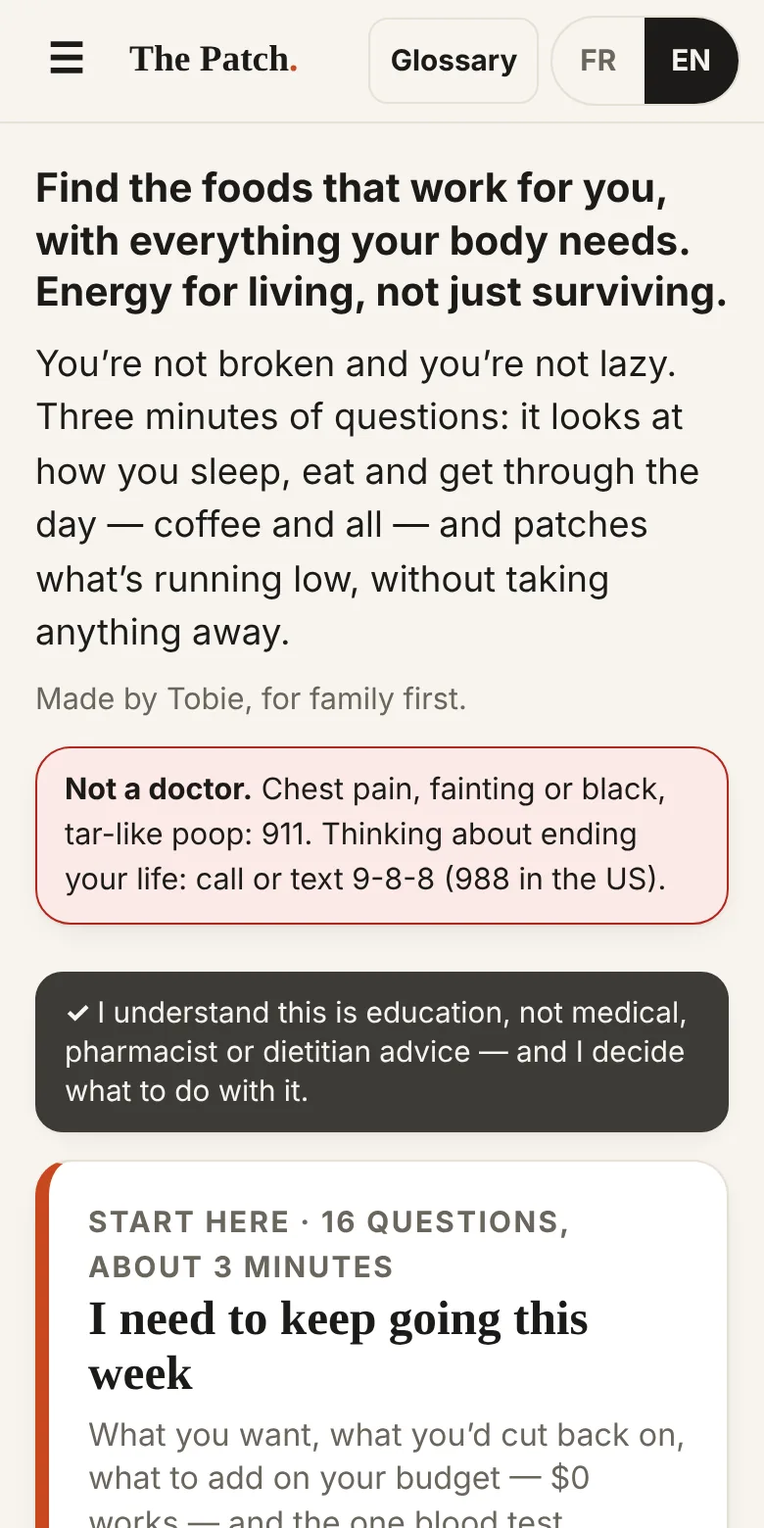
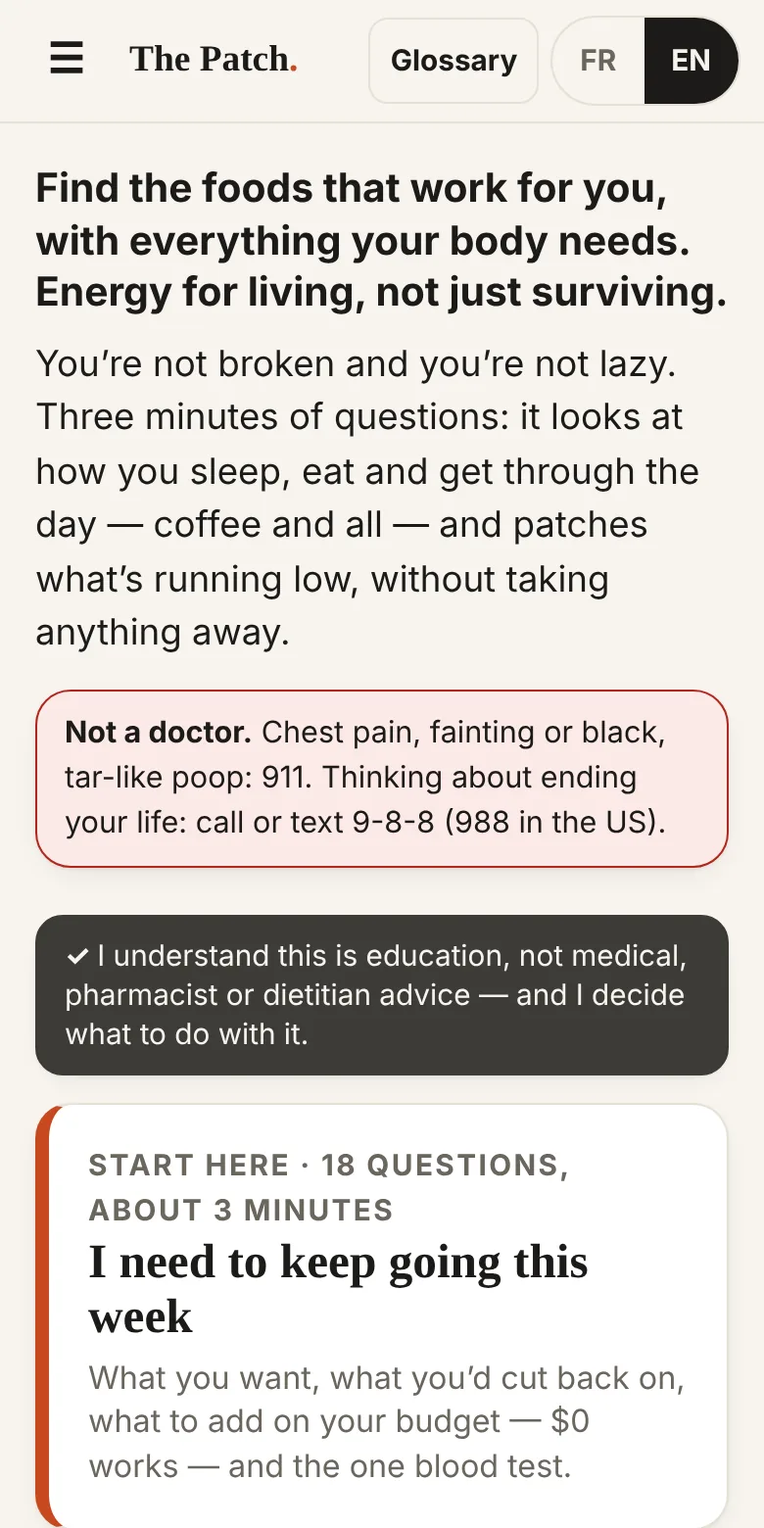
The Patch: a crash report logs itself; under-18 notice first; Back button
The app (still 1.2.61, so its one-time safety note is not shown again):
- A crash report is saved when its read is reached, the way a meal or a
  symptom report is saved on Done. Going back to change an answer updates
  that entry instead of adding a second one. Deleting the entry, or Clear
  log, is respected. Chest pain or fainting is never logged as a crash.
- Someone who answers "under 18" now sees that notice as the first card
  of the plan, in full, instead of folded among the notes at the bottom.
  The plan under it is the adapted one, as before.
- The phone's Back button goes one step back inside the app (a sheet
  closes, a question goes back, other screens go to Report) and leaves
  only from Report.
- PIN sheet and lock screen: each label sits above its own field.
- Dark mode: a selected warning sign, links in a sheet and a glossary
  word inside a tag can be read.
- 320px screens: Back, the progress dots and "None of these" fit.
- The backup file is named with the local date, not the UTC one.
- "Not now" under the big Install button; Menu keeps "Install on this
  phone".
- First run: the language chosen on the front page, if there is one.

The page: "18 questions" (the count a first visitor gets), a link back to
v3ktor.org in the header and the footer, the language choice shared with
the front page and Sollum's page, dark-mode button text. The two
"Start here" screenshots are retaken from the current app.

Cache name updated so phones pick up the change.
[…]

diff --git a/patch/app/index.html b/patch/app/index.html
@@ -345,6 +345,15 @@ ul.pay{padding-left:18px} ul.pay li{margin:.2em 0}
 .card .x{position:absolute;top:2px;right:2px;width:44px;height:44px;border:0;background:transparent;color:var(--muted);font-size:1.5rem;line-height:1;cursor:pointer;border-radius:22px}
 .card .x:focus-visible{outline:3px solid var(--accent)}
 .chip.alarm{border-color:var(--warn)} .chip.alarm[aria-pressed="true"]{background:var(--warn);border-color:var(--warn);color:#fff}
+/* dark mode: a selected warning sign and the links in a sheet were too faint (white on coral, browser blue on charcoal) */
+@media (prefers-color-scheme:dark){.chip.alarm[aria-pressed="true"]{color:#1c0d0b} .sheet a:not(.btn){color:var(--teal)}}
+/* a glossary word inside a coloured tag takes the tag's own text colour (teal on orange couldn't be read) */
+.tag .t{color:inherit}
+/* PIN: each label above its own field */
+label[for="pinA"],label[for="pinB"],label[for="pinIn"]{display:block;margin:10px 0 4px}
+#pinA,#pinB,#pinIn{display:block;width:100%;max-width:240px;min-height:44px;box-sizing:border-box}
+/* 320px screens: Back, the progress dots and "None of these →" fit on one line */
+@media (max-width:340px){.bar{padding-left:10px;padding-right:10px} #bar .in{gap:6px} #bar .in .btn{padding:9px 10px} .prog{gap:2px;margin:0 6px}}
 .labgrid{display:grid;grid-template-columns:1fr;gap:10px;margin-top:12px} @media(min-width:520px){.labgrid{grid-template-columns:1fr 1fr}}
 .labgrid label.lab{display:flex;flex-direction:column;gap:4px;font-size:.95rem} .labgrid label.lab span{font-weight:600}
 .labform input.sel{min-height:44px} .labform input[type=date]{max-width:220px}
@@ -498,7 +507,8 @@ const VER='1.2.61'; const CHECKED=['4 Nov 2026','4 nov. 2026'];
 /* v1.2.59 (8 Nov 2026): a day summary for other v3ktor.org apps on this phone (Sollum first): sleep, caffeine, sugar, meals, drinks,
    crashes — counts and times, never the answers or the food list — under one shared local key, next to the app's own storage.
    Nothing leaves the phone. Off in the menu; erasing the app clears it. The summaries also ride along in the backup (S.sum). */
-if(!S.lang){ S.lang = (navigator.language||'en').toLowerCase().startsWith('fr') ? 'fr' : 'en'; }
+if(!S.lang){ let fp=null; try{ fp=localStorage.getItem('v3ktor-lang'); }catch(e){}   /* the choice made on the v3ktor.org front page, if there is one */
+  S.lang = (fp==='fr'||fp==='en') ? fp : (navigator.language||'en').toLowerCase().startsWith('fr') ? 'fr' : 'en'; }
 /* v0.7: three doors. Older saves have no mode — someone mid-questions lands back on their question, everyone else on the chooser. */
 if(!S.mode){ S.mode = S.step>0 ? 'patch' : 'home'; }
 if(!S.c||typeof S.c!=='object') S.c={}; if(Array.isArray(S.c.cstim)) S.c.cstim=S.c.cstim[0]||null; if(!Array.isArray(S.crashes)) S.crashes=[]; if(!S.cstep) S.cstep=0;
@@ -1443,7 +1453,7 @@ function buildPatch(){
   const P={keep:[],keepShort:[],swap:[],swapShort:[],add:[],eat:[],timing:[],leak:[],number:[],plain:[],always:[],stops:[],book:[],notes:[],cost:0,addNote:'',deferred:0};
 
   /* safety answers: not emergencies, but they rewrite the card */
-  if(minor) P.notes.push(L(`<b>Under 18: this wasn’t built for you.</b> The doses and the alcohol advice are for adults, so the Add card is empty on purpose. What still holds: protein before noon, caffeine done by noon, and if you’re tired all the time, ask a parent, school nurse or doctor for a ferritin test — low iron is very common at your age and it looks exactly like “lazy”.`,
+  if(minor) P.notes.push(P.minorNote=L(`<b>Under 18: this wasn’t built for you.</b> The doses and the alcohol advice are for adults, so the Add card is empty on purpose. What still holds: protein before noon, caffeine done by noon, and if you’re tired all the time, ask a parent, school nurse or doctor for a ferritin test — low iron is very common at your age and it looks exactly like “lazy”.`,
     `<b>Moins de 18 ans : ça n’a pas été bâti pour toi.</b> Les doses et les conseils sur l’alcool sont pour des adultes, alors la carte Ajouter est vide exprès. Ce qui s’applique quand même : des protéines avant midi, la caféine finie à midi, et si tu es toujours à plat, demande à un parent, à l’infirmière de l’école ou à un médecin un test de ferritine — manquer de fer est très fréquent à ton âge, et de l’extérieur, ça passe pour de la paresse.`));
   const BF=SF.bf;
   if(preg) P.notes.push(L(`<b>Pregnant: the patch changes for you.</b> No liver, no creatine, no salt water. Caffeine: 300 mg a day at most — about a mug and a half of drip coffee.${drinks?' Alcohol: no amount is known to be safe in pregnancy; if stopping is hard, that’s a pharmacist or prenatal-clinic conversation this week, not a swap.':''} Every supplement below gets a yes from the pharmacist first — ${T('prenatal','a prenatal vitamin with 16–20 mg of iron')} is the base (Health Canada). Ferritin matters more for you, not less: the iron target goes up by half in pregnancy, from 18 to 27 mg. Ask at your next visit.`,
@@ -2670,9 +2680,11 @@ function daysLine(){ const n=usableKeys().length, sa=asideKeys().length; if(n<MI
    So on iPhone, outside the installed app (and outside Claude), say so once — dismissible. */
 const IOS=(()=>{ try{ return /iP(hone|ad|od)/.test(navigator.userAgent)||(navigator.platform==='MacIntel'&&navigator.maxTouchPoints>1); }catch(_){ return false; } })();
 /* A big Install button on Home, like V3KTOR's (13 Nov 2026). It opens the phone's own install dialog when the browser offers one; otherwise it goes to the steps on the site page. */
-function instBig(){ let installed=false; try{ installed=!!(navigator.standalone||(window.matchMedia&&window.matchMedia('(display-mode: standalone)').matches)); }catch(_){}
-  if(installed||window.claude||window.__installed||!/^https?:$/.test(location.protocol)) return ''; try{ if(window.top!==window.self||localStorage.getItem('thepatch.installDismissed')) return ''; }catch(_){ return ''; }
-  return `<div class="instbig" style="margin:14px 0"><style>body:has(.instbig) #installPill{display:none!important}</style><button type="button" data-install-big style="display:block;width:100%;box-sizing:border-box;min-height:64px;padding:14px 18px;font:inherit;font-size:1.12rem;font-weight:800;letter-spacing:.02em;border:2px solid currentColor;border-radius:14px;background:transparent;color:inherit;cursor:pointer">↓ ${L('Install The Patch','Installer La Patch')}</button><p style="margin:6px 0 0;text-align:center;font-size:.85rem;opacity:.72">${L('Home-screen icon · full screen · works offline','Icône d’accueil · plein écran · fonctionne hors ligne')}</p></div>`; }
+/* can this copy be installed from here? Not when it already is, inside Claude or a frame, or opened as a file */
+function canInstall(){ let installed=false; try{ installed=!!(navigator.standalone||(window.matchMedia&&window.matchMedia('(display-mode: standalone)').matches)); }catch(_){}
+  if(installed||window.claude||window.__installed||!/^https?:$/.test(location.protocol)) return false; try{ return window.top===window.self; }catch(_){ return false; } }
+function instBig(){ if(!canInstall()) return ''; try{ if(localStorage.getItem('thepatch.installDismissed')) return ''; }catch(_){ return ''; }
+  return `<div class="instbig" style="margin:14px 0"><style>body:has(.instbig) #installPill{display:none!important}</style><button type="button" data-install-big style="display:block;width:100%;box-sizing:border-box;min-height:64px;padding:14px 18px;font:inherit;font-size:1.12rem;font-weight:800;letter-spacing:.02em;border:2px solid currentColor;border-radius:14px;background:transparent;color:inherit;cursor:pointer">↓ ${L('Install The Patch','Installer La Patch')}</button><p style="margin:6px 0 0;text-align:center;font-size:.85rem;opacity:.72">${L('Home-screen icon · full screen · works offline','Icône d’accueil · plein écran · fonctionne hors ligne')}</p><p style="margin:0;text-align:center"><button type="button" data-install-no style="min-height:44px;padding:8px 16px;border:0;background:none;color:inherit;font:inherit;font-size:.9rem;text-decoration:underline;text-underline-offset:3px;cursor:pointer">${L('Not now','Pas maintenant')}</button></p></div>`; }
 function iosNote(){ let installed=false; try{ installed=!!(navigator.standalone||(window.matchMedia&&window.matchMedia('(display-mode: standalone)').matches)); }catch(_){}
   if(!IOS||installed||window.claude||S.iosOk) return '';
   return `<div class="card soft small" id="iosCard"><p style="margin:0 0 8px">${L('On iPhone, Safari can erase your answers if a week of using Safari goes by without you opening this. Add it to your Home Screen to keep them: in Safari, Share ⬆ → Add to Home Screen.','Sur iPhone, Safari peut effacer tes réponses si une semaine d’utilisation passe sans que tu ouvres l’app. Ajoute-la à ton écran d’accueil pour les garder : dans Safari, Partager ⬆ → Sur l’écran d’accueil.')}</p><button type="button" class="btn ghost sm" id="iosOk">${L('Got it','Compris')}</button></div>`; }
@@ -4185,6 +4197,16 @@ function cleanState(){ const okD=s=>typeof s==='string'&&/^\d{4}-\d{2}-\d{2}$/.t
 function crashFlagAfterDelete(k){ if(!k||crashKeys().has(k)) return ''; const r=rates()[k]; if(!r||!r.fl||!r.fl.cr) return '';
   if(r.crA){ delete r.fl.cr; delete r.crA; return ''; }
   return L('Deleted. That day’s check-in still says you crashed — change it there if that’s wrong.','Supprimé. Le bilan de cette journée dit encore que tu as crashé — change-le là si ce n’est pas juste.'); }
+/* A crash report saves itself when its read is reached, the way a meal or a symptom report does on Done. The draft remembers its entry (_lid):
+   change an answer, come back to the read, and that entry is updated instead of a second one being added. Chest pain or fainting is never logged as a crash.
+   Deleting the entry (×, or Clear log) turns this off for that draft (_nolog); "Log this crash" still works. */
+function logCrash(){ const R=buildCrash(); if(R.danger) return false; const ans={}; for(const [k2,v2] of Object.entries(S.c)) if(k2[0]!=='_') ans[k2]=Array.isArray(v2)?[...v2]:v2;
+  const dk=S.c._day||dayKey(), i=S.c._lid?S.crashes.findIndex(x=>x&&x.id===S.c._lid):-1, old=i>=0?S.crashes[i]:null;
+  const e={id:old?old.id:Date.now(), d:old?old.d:new Date().toISOString(), day:dk, at:S.c._at||null, answers:ans, ver:VER, when:S.c.cwhen||null, feel:Array.isArray(S.c.cfeel)?[...S.c.cfeel]:[], top:R.top, second:R.second, conf:R.conf};
+  if(old) S.crashes[i]=e; else S.crashes.push(e);
+  if(old&&crashDay(old)!==dk) crashFlagAfterDelete(crashDay(old));   /* the report moved to another day: the old day's ⚡ goes if nothing else holds it */
+  { const rr=rates()[dk]||(rates()[dk]={}); rr.fl=rr.fl||{}; if(!rr.fl.cr){ rr.fl.cr=true; rr.crA=true; } } /* v1.2.25: the check-in agrees with the log; "Which is right?" only if ⚡ is unticked later */
+  pruneCrashes(); S.c._logged=e.id; S.c._lid=e.id; return true; }
 /* a year of crash reports, not the last 30 */
 function pruneCrashes(){ const cut=keyAdd(dayKey(),-365); S.crashes=(S.crashes||[]).filter(x=>{ const k=crashDay(x); return !k||k>=cut; }).slice(-500); }
 /* the bring-back days count only where the log (or the check-in, for coffee and drinks) shows it was back */
@@ -4214,9 +4236,10 @@ function weekCard(P){ const SF=SAFE(); const bought=P.add.filter(x=>x.cost>0).ma
   rows.push(`<li><b>${L('Add:','Ajouter :')}</b> ${add}</li>`);
   return `<div class="card patch"><h3><span class="tag teal">${L('This week','Cette semaine')}</span></h3><ul class="wk">${rows.join('')}</ul><p class="small muted" style="margin:0">${L('The why, the foods and the rest are in the full patch, further down.','Le pourquoi, les aliments et le reste sont dans la patch au complet, plus bas.')}</p></div>`; }
 /* one card for the notes: each opens from its bold first line; lines that must never be folded stay in the open */
-function notesCard(P){ if(!P.notes.length && !P.always.length) return '';
+function notesCard(P){ const notes=P.notes.filter(s=>s!==P.minorNote);   /* the under-18 notice has its own card at the top of the plan */
+  if(!notes.length && !P.always.length) return '';
   const split=s=>{ const i=s.indexOf('</b>'); return (s.startsWith('<b>')&&i>0)?[s.slice(0,i+4), s.slice(i+4).trim()]:[s,'']; };
-  const items=P.notes.map(s=>{ const [hd,rest]=split(s); return rest?`<details class="note"><summary>${hd}</summary><p style="margin:2px 0 10px">${rest}</p></details>`:`<p style="margin:8px 0">${hd}</p>`; }).join('');
+  const items=notes.map(s=>{ const [hd,rest]=split(s); return rest?`<details class="note"><summary>${hd}</summary><p style="margin:2px 0 10px">${rest}</p></details>`:`<p style="margin:8px 0">${hd}</p>`; }).join('');
   return `<div class="card soft"><div class="eyebrow">${L('Because of what you told us','Selon ce que tu nous as dit')}</div>${items}${P.always.map(s=>`<p style="margin:10px 0 0">${s}</p>`).join('')}</div>`; }
 /* day 4: the check the Add card promises; week 4: the redo. Only shown when the person opens the app — nothing reminds them. */
 function dayCheck(P,where){ if(!S.started) return ''; const day=Math.floor((Date.now()-new Date(S.started).getTime())/86400000)+1;
@@ -4248,7 +4271,9 @@ function vPatch(){
   }
   /* v1.2.48: a new patch reads top-down; once the week has started, what's live — the weight plan, a test, your path — comes first */
   const live=planLive(); { const sg=pathSig(); if(S.planSig!==sg){ S.planSig=sg; save(); } }
-  h+=started?stops+bookCard()+live+head:head+stops+bookCard();
+  /* under 18: said first and in full, not folded among the notes further down. The plan below is already the adapted one (no doses, no alcohol advice, no weight plan). */
+  const minorCard=P.minorNote?`<div class="card soft" id="minorNote"><p style="margin:0">${P.minorNote}</p></div>`:'';
+  h+=started?stops+minorCard+bookCard()+live+head:head+stops+minorCard+bookCard();
   h+=mirrorHTML();
   h+=dayCheck(P,'patch');
   { const o=oneThing(P); h+=`<div class="card one"><div class="eyebrow">${L('If you do one thing this week','Si tu fais une seule chose cette semaine')}</div><p class="big">${o.t}</p><p class="small muted" style="margin:0">${o.w} ${L('The rest is below, for when you come back.','Le reste est plus bas, pour quand tu reviendras.')}</p></div>`; }
@@ -4383,17 +4408,17 @@ function bind(){
     save(); render(); };
   if($('home')) $('home').onclick=()=>{ S.mode='home'; save(); render(); };
   if($('next')) $('next').onclick=()=>{ const n=$('next').dataset.none;
-    if(view()==='cq'){ if(n){ const q=CQ.find(x=>x.id===n); S.c[n]=(q&&q.multi)?[$('next').dataset.nonev]:$('next').dataset.nonev; } S.cstep++; }
+    let logged=false;
+    if(view()==='cq'){ if(n){ const q=CQ.find(x=>x.id===n); S.c[n]=(q&&q.multi)?[$('next').dataset.nonev]:$('next').dataset.nonev; } S.cstep++; if(S.cstep>cqList().length&&!S.c._logged&&!S.c._nolog) logged=logCrash(); }
     else if(view()==='tq'){ if(n) S.tank.p[n]=['none']; tqAdvance(); }
     else { if(n){ S.a[n]=['none']; if(n==='cut') syncKeep(); } S.step++; }
-    save(); render(); };
+    save(); render(); if(logged) toast(L('Logged','Au journal')); };
   if($('urgentAck')) $('urgentAck').onclick=()=>{ S.urgentAck=true; save(); render(true); };
   if($('startWeek')) $('startWeek').onclick=()=>{ S.started=new Date().toISOString(); S.checkins=[]; save(); render(true); toast(L('Week started','Semaine commencée')); };
-  if($('logCrash')) $('logCrash').onclick=()=>{ const R=buildCrash(); const id=Date.now(); const ans={}; for(const [k2,v2] of Object.entries(S.c)) if(k2[0]!=='_') ans[k2]=Array.isArray(v2)?[...v2]:v2; S.crashes.push({id, d:new Date().toISOString(), day:S.c._day||dayKey(), at:S.c._at||null, answers:ans, ver:VER, when:S.c.cwhen||null, feel:Array.isArray(S.c.cfeel)?[...S.c.cfeel]:[], top:R.top, second:R.second, conf:R.conf}); { const dk=S.c._day||dayKey(); const rr=rates()[dk]||(rates()[dk]={}); rr.fl=rr.fl||{}; if(!rr.fl.cr){ rr.fl.cr=true; rr.crA=true; } } /* v1.2.25: the check-in agrees with the log; "Which is right?" only if ⚡ is unticked later */
-    pruneCrashes(); S.c._logged=id; save(); render(true); toast(L('Logged','Au journal')); };
+  if($('logCrash')) $('logCrash').onclick=()=>{ delete S.c._nolog; if(!logCrash()) return; save(); render(true); toast(L('Logged','Au journal')); };
   if($('newCrash')) $('newCrash').onclick=()=>{ S.c={_st:Date.now()}; S.cstep=1; save(); render(); };
-  if($('clearLog')) $('clearLog').onclick=function(){ if(!this.dataset.sure){ this.dataset.sure='1'; this.textContent=L('Tap again to clear the crash log','Appuie encore pour vider le journal'); return; } const ks=[...new Set(S.crashes.map(crashDay).filter(Boolean))]; S.crashes=[]; delete S.c._logged; let note=''; for(const k of ks){ const n=crashFlagAfterDelete(k); if(n) note=n; } save(); render(true); toast(note?L('Log cleared. Some check-ins still say you crashed — change them there if that’s wrong.','Journal vidé. Certains bilans disent encore que tu as crashé — change-les là si ce n’est pas juste.'):L('Log cleared','Journal vidé')); };
-  document.querySelectorAll('[data-delcrash]').forEach(b=>{ b.onclick=()=>{ const i=+b.dataset.delcrash; const x=S.crashes[i]; const isCurrent = S.c._logged===true ? i===S.crashes.length-1 : (x&&x.id===S.c._logged); S.crashes.splice(i,1); if(isCurrent||!S.crashes.length) delete S.c._logged; const left=x?crashFlagAfterDelete(crashDay(x)):''; save(); render(true); toast(left||L('Deleted','Supprimé')); }; });
+  if($('clearLog')) $('clearLog').onclick=function(){ if(!this.dataset.sure){ this.dataset.sure='1'; this.textContent=L('Tap again to clear the crash log','Appuie encore pour vider le journal'); return; } const ks=[...new Set(S.crashes.map(crashDay).filter(Boolean))]; S.crashes=[]; delete S.c._logged; delete S.c._lid; S.c._nolog=true; let note=''; for(const k of ks){ const n=crashFlagAfterDelete(k); if(n) note=n; } save(); render(true); toast(note?L('Log cleared. Some check-ins still say you crashed — change them there if that’s wrong.','Journal vidé. Certains bilans disent encore que tu as crashé — change-les là si ce n’est pas juste.'):L('Log cleared','Journal vidé')); };
+  document.querySelectorAll('[data-delcrash]').forEach(b=>{ b.onclick=()=>{ const i=+b.dataset.delcrash; const x=S.crashes[i]; const isCurrent = S.c._logged===true ? i===S.crashes.length-1 : (x&&x.id===S.c._logged); const mine=isCurrent||(x&&x.id===S.c._lid); S.crashes.splice(i,1); if(isCurrent||!S.crashes.length) delete S.c._logged; if(mine){ delete S.c._lid; S.c._nolog=true; } const left=x?crashFlagAfterDelete(crashDay(x)):''; save(); render(true); toast(left||L('Deleted','Supprimé')); }; });
   bindFoods(); bindRest(); bind127(); bind128(); bind129(); bind130(); bind132();
   if($('foodQ')) $('foodQ').onblur=()=>{ qBlurAt=Date.now(); };
   if($('foodQ')) $('foodQ').oninput=(e)=>{ foodQ=e.target.value; const fl=$('foodList'); if(fl){ fl.innerHTML=foodsHTML(editMap(),S.tank.grp); bindFoods(); } document.querySelectorAll('.fgrp').forEach(g=>{ g.hidden=!!foodQ.trim(); }); };
@@ -4452,7 +4477,7 @@ let refocus=null; let NAV={};
 /* backups: inside Claude the page can't download directly — it asks the platform (the viewer confirms). Opened as a plain file, a normal download works. Last resort: copy the text. */
 async function backupData(){
   const data=JSON.stringify({app:'the-patch',ver:VER,saved:new Date().toISOString(),state:S});
-  const filename='the-patch-backup-'+new Date().toISOString().slice(0,10)+'.json';
+  const filename='the-patch-backup-'+dayKey()+'.json';
   let dl=null; try{ dl=(window.claude&&typeof window.claude.use==='function')?await window.claude.use('downloads'):null; }catch(e){ dl=null; }
   if(dl){ try{ await dl.save({filename,data}); toast(L('Backup saved','Sauvegarde enregistrée')); return; }
     catch(e){ if(e&&e.code==='rate_limited'){ toast(L('Try again in a moment','Réessaie dans un instant')); return; } } }
@@ -4569,7 +4594,7 @@ function openMenu(opener){
     ['about',L('About & privacy','À propos et confidentialité')]
   ];
   const any=Object.keys(S.a).length||S.crashes.length||S.cstep||S.tstep;
-  showSheet(`<div class="handle"></div><h3 id="sheetTitle">${L('Menu','Menu')}</h3><div class="menu">${items.map(([k,l])=>`<button type="button" data-mn="${k}">${l}</button>`).join('')}<button type="button" id="mnLock">${S.lock?L('Change or remove the PIN','Changer ou enlever le NIP'):L('Lock with a PIN','Verrouiller avec un NIP')}</button><button type="button" id="mnBackup">${L('Back up my data (a file)','Sauvegarder mes données (un fichier)')}</button><button type="button" id="mnRestore">${L('Restore from a backup','Restaurer une sauvegarde')}</button><button type="button" id="mnShare">${shareOn()?L('Day summary for other v3ktor.org apps on this phone: on','Résumé du jour pour les autres applis v3ktor.org sur ce téléphone\u00a0: activé'):L('Day summary for other v3ktor.org apps on this phone: off','Résumé du jour pour les autres applis v3ktor.org sur ce téléphone\u00a0: désactivé')}</button>${any?`<button type="button" class="danger" id="mnErase">${L('Erase my answers','Effacer mes réponses')}</button>`:''}</div><p class="small muted" style="margin:12px 0 0">v${VER} · ${L('sources checked','sources vérifiées le')} ${P2(CHECKED)} · ${L('pharmacist review: not yet','révision par un pharmacien : pas encore')}</p><div class="row" style="margin-top:12px"><button class="btn sm" id="closeSheet">${L('Close','Fermer')}</button></div>`, opener);
+  showSheet(`<div class="handle"></div><h3 id="sheetTitle">${L('Menu','Menu')}</h3><div class="menu">${items.map(([k,l])=>`<button type="button" data-mn="${k}">${l}</button>`).join('')}<button type="button" id="mnLock">${S.lock?L('Change or remove the PIN','Changer ou enlever le NIP'):L('Lock with a PIN','Verrouiller avec un NIP')}</button>${canInstall()?`<button type="button" data-install-big>${L('Install on this phone','Installer sur ce téléphone')}</button>`:''}<button type="button" id="mnBackup">${L('Back up my data (a file)','Sauvegarder mes données (un fichier)')}</button><button type="button" id="mnRestore">${L('Restore from a backup','Restaurer une sauvegarde')}</button><button type="button" id="mnShare">${shareOn()?L('Day summary for other v3ktor.org apps on this phone: on','Résumé du jour pour les autres applis v3ktor.org sur ce téléphone\u00a0: activé'):L('Day summary for other v3ktor.org apps on this phone: off','Résumé du jour pour les autres applis v3ktor.org sur ce téléphone\u00a0: désactivé')}</button>${any?`<button type="button" class="danger" id="mnErase">${L('Erase my answers','Effacer mes réponses')}</button>`:''}</div><p class="small muted" style="margin:12px 0 0">v${VER} · ${L('sources checked','sources vérifiées le')} ${P2(CHECKED)} · ${L('pharmacist review: not yet','révision par un pharmacien : pas encore')}</p><div class="row" style="margin-top:12px"><button class="btn sm" id="closeSheet">${L('Close','Fermer')}</button></div>`, opener);
   sheet.querySelectorAll('[data-mn]').forEach(b=>{ b.onclick=()=>{ const k=b.dataset.mn;
     if(k==='gloss'){ openGlossary(null); return; }
     if(k==='about'){ openAbout(); return; }
@@ -4604,6 +4629,13 @@ function closeSheet(noFocus){
   const o=sheetOpener; sheetOpener=null;
   if(noFocus!==true && o && document.body.contains(o)){ try{ o.focus({preventScroll:true}); }catch(e){} }
 }
+/* The phone's Back button, or the back gesture, goes one step back in the app instead of leaving it: an open sheet closes, a question or a report
+   goes back the way its own ← button does, any other screen goes to Report. On Report (and on the lock screen) Back leaves, as before. */
+function navBack(){ if(isLocked()) return false;
+  if(sheet.classList.contains('on')){ closeSheet(); return true; }
+  const b=document.getElementById('back'); if(b&&!bar.classList.contains('hidden')){ b.click(); return true; }
+  if(view()!=='start'){ S.mode='home'; save(); render(); return true; }
+  return false; }
 /* the dimmed background never scrolls the page behind it */
 sheetBg.addEventListener('touchmove',e=>e.preventDefault(),{passive:false});
 sheetBg.onclick=closeSheet;
@@ -4622,6 +4654,11 @@ document.addEventListener('keydown',e=>{
 try{ if(!S.sumMig){ shareDays(true); S.sumMig=true; } }catch(e){}
 bootView();
 render();
+/* one extra history entry stands in for "inside the app": Back pops it, navBack() decides, and it is put back unless the app should be left.
+   Not inside a frame or inside Claude, where the history belongs to the page around the app. */
+try{ if(window.top===window.self&&!window.claude){ const mark=()=>{ try{ if(!(history.state&&history.state.tp)) history.pushState({tp:1},''); }catch(e){} };
+  mark(); window.addEventListener('popstate',()=>{ if(navBack()) mark(); else history.back(); });
+  window.addEventListener('pageshow',e=>{ if(e.persisted) mark(); }); } }catch(e){}
 </script>
 <script>
 /* installed-app layer (website build only) */
@@ -4647,6 +4684,9 @@ render();
     if(ev){ go(); return; } if(!/Android/i.test(navigator.userAgent)){ steps(); return; } if(t.disabled) return;
     /* on Android the browser's offer can arrive a moment after the page: wait up to 2.5 seconds before going to the steps */
     t.disabled=true; var n=0, iv=setInterval(function(){ n++; if(ev){ clearInterval(iv); t.disabled=false; go(); } else if(n>=10){ clearInterval(iv); steps(); } },250); });
+  /* "Not now" under the big button: the button and the black bar stay away from then on; Menu → Install on this phone is still there */
+  document.addEventListener('click',function(e){ var t=e.target&&e.target.closest?e.target.closest('[data-install-no]'):null; if(!t) return; e.preventDefault();
+    try{ localStorage.setItem(KEY,'1'); }catch(x){} var b=document.getElementById('installPill'); if(b) b.remove(); document.querySelectorAll('.instbig').forEach(function(x){ x.remove(); }); });
   window.addEventListener('appinstalled',function(){ window.__installed=true; var b=document.getElementById('installPill'); if(b) b.remove(); document.querySelectorAll('.instbig').forEach(function(x){ x.remove(); }); });
 })();
 </script>

diff --git a/patch/index.html b/patch/index.html
@@ -34,6 +34,8 @@ header.top{display:flex;align-items:center;gap:10px;padding:14px 0}
 header.top .brand{display:flex;align-items:center;gap:10px;font-family:ui-serif,Georgia,serif;font-weight:800;font-size:1.15rem;text-decoration:none;color:var(--ink)}
 header.top img{width:34px;height:34px;border-radius:8px}
 header.top .sp{flex:1}
+header.top .home{display:inline-flex;align-items:center;min-height:44px;padding:0 4px;font-size:.9rem;color:var(--muted);text-decoration:none}
+@media (max-width:359px){header.top .home{display:none}}   /* no room beside the name on the narrowest phones: the link is also in the footer */
 .lang{display:inline-flex;background:var(--chip);border-radius:999px;padding:3px}
 .lang button{border:0;background:transparent;font:600 14px system-ui,sans-serif;padding:7px 12px;border-radius:999px;cursor:pointer;color:var(--muted)}
 .lang button[aria-pressed="true"]{background:var(--ink);color:#fff}
@@ -85,7 +87,7 @@ kbd{font:600 .85em system-ui;background:var(--chip);border-radius:6px;padding:1p
 :root{--bg:#15161a;--card:#1e2026;--ink:#ececea;--muted:#a19d95;--line:#2d3038;--accent:#e3633a;--teal:#5fb3b3;--chip:#2a2c33;--warn-soft:#3a1f1c;--warn:#ff7b6e}
 .lead{color:var(--ink)}
 .lang button[aria-pressed="true"],.steps li::before{color:var(--bg)}
-.btn.primary{color:#fff}
+.btn.primary{color:#1a0c06}   /* the orange is lighter in dark mode: white on it was 3.4 to 1; dark ink, as in the app */
 .phone,.shots img{border-color:#3a3d47}
 .card{box-shadow:none;border:1px solid var(--line)}
 .g-l{color:#10201f}
@@ -102,6 +104,7 @@ kbd{font:600 .85em system-ui;background:var(--chip);border-radius:6px;padding:1p
   <header class="top">
     <a class="brand" href="./"><img src="app/icons/icon-192.png" alt=""><span class="en">The Patch</span><span class="fr">La Patch</span></a>
     <span class="sp"></span>
+    <a class="home" href="/">v3ktor.org</a>
     <span class="lang" role="group" aria-label="Language / Langue"><button type="button" data-l="fr">FR</button><button type="button" data-l="en">EN</button></span>
   </header>
 
@@ -123,7 +126,7 @@ kbd{font:600 .85em system-ui;background:var(--chip);border-radius:6px;padding:1p
   <section>
     <h2><span class="en">What’s inside</span><span class="fr">Ce qu’il y a dedans</span></h2>
     <div class="grid g2">
-      <div class="card door"><h3><span class="en">I need to keep going this week</span><span class="fr">Je dois tenir cette semaine</span></h3><p><span class="en">17 questions, about 3 minutes, the first time. It says your day back to you, then what to keep, what to swap, what to add on your budget — $0 works — and the one blood test to ask for.</span><span class="fr">17 questions, environ 3 minutes, la première fois. L’app te résume ta journée, puis quoi garder, quoi remplacer, quoi ajouter selon ton budget — 0 $ marche — et la prise de sang à demander.</span></p></div>
+      <div class="card door"><h3><span class="en">I need to keep going this week</span><span class="fr">Je dois tenir cette semaine</span></h3><p><span class="en">18 questions, about 3 minutes, the first time. It says your day back to you, then what to keep, what to swap, what to add on your budget — $0 works — and the one blood test to ask for.</span><span class="fr">18 questions, environ 3 minutes, la première fois. L’app te résume ta journée, puis quoi garder, quoi remplacer, quoi ajouter selon ton budget — 0 $ marche — et la prise de sang à demander.</span></p></div>
       <div class="card door t"><h3><span class="en">Crash and symptom reports</span><span class="fr">Noter un crash ou un symptôme</span></h3><p><span class="en">A few questions about the last few hours — fewer when your meals are logged. The most likely cause, and one move for tomorrow. A symptom&nbsp;— bloating, loose stools, a headache&nbsp;— takes a few seconds, with the time.</span><span class="fr">Quelques questions sur les dernières heures — moins quand tes repas sont notés. La cause la plus probable, et un geste pour demain. Un symptôme&nbsp;— ballonnements, selles molles, mal de tête&nbsp;— se note en quelques secondes, avec l’heure.</span></p></div>
       <div class="card door g"><h3><span class="en">Meal report and fuel tank</span><span class="fr">Noter un repas, et le réservoir</span></h3><p><span class="en">Tap what you ate, with the time. The gauge shows today’s fuel and protein, and what’s low this week against Health Canada’s needs — pills and energy drinks included. Nothing logged yet? One minute on a normal day fills it. Got bloodwork? Type it in, and the tank shows where your stores are and whether they’re holding.</span><span class="fr">Appuie sur ce que tu as mangé, avec l’heure. La jauge montre le carburant et les protéines du jour, et ce qui est bas cette semaine selon les besoins de Santé Canada — pilules et boissons énergisantes comprises. Rien de noté encore? Une minute sur une journée normale la remplit. Tu as une prise de sang? Entre les résultats, et le réservoir montre où en sont tes réserves et si elles tiennent.</span></p></div>
       <div class="card door k"><h3><span class="en">Ask an AI</span><span class="fr">Demande à une IA</span></h3><p><span class="en">Everything you answered, ready to paste into any AI chat, with rules that keep it honest. Nothing to explain from scratch.</span><span class="fr">Tout ce que tu as répondu, prêt à coller dans n’importe quel chat d’IA, avec des règles qui le gardent honnête. Rien à réexpliquer.</span></p></div>
@@ -221,16 +224,19 @@ kbd{font:600 .85em system-ui;background:var(--chip);border-radius:6px;padding:1p
     <div class="flag"><b><span class="en">Not a doctor.</span><span class="fr">Pas un médecin.</span></b> <span class="en">Education, not medical, pharmacist or dietitian advice. Chest pain, fainting or black, tar-like stool: 911. Thinking about ending your life: call or text 9-8-8 (988 in the US).</span><span class="fr">De l’éducation, pas un avis médical, pharmaceutique ou diététique. Douleur à la poitrine, évanouissement ou selles noires comme du goudron : 911. Tu penses à mettre fin à tes jours : appelle ou texte le 9-8-8 (988 aux É.-U.).</span></div>
   </section>
 </div>
-<footer><div class="wrap"><span class="en">The Patch · free, no ads, no account · reviewed by AI and real users, not yet by a pharmacist.</span><span class="fr">La Patch · gratuite, sans pub, sans compte · révisée par des IA et de vrais utilisateurs, pas encore par un pharmacien.</span></div><div class="wrap" style="margin-top:8px"><span class="en">Free software under the <a href="https://github.com/tobiedavid/v3ktor.org/blob/main/LICENSE">GNU AGPL-3.0-or-later</a> — <a href="https://github.com/tobiedavid/v3ktor.org">source code</a>. Food values: Canadian Nutrient File, Health Canada — contains information licensed under the <a href="https://open.canada.ca/en/open-government-licence-canada">Open Government Licence – Canada</a>.</span><span class="fr">Logiciel libre sous licence <a href="https://github.com/tobiedavid/v3ktor.org/blob/main/LICENSE">GNU AGPL-3.0-or-later</a> — <a href="https://github.com/tobiedavid/v3ktor.org">code source</a>. Valeurs des aliments : Fichier canadien sur les éléments nutritifs, Santé Canada — contient de l’information visée par la <a href="https://ouvert.canada.ca/fr/licence-du-gouvernement-ouvert-canada">Licence du gouvernement ouvert – Canada</a>.</span></div></footer>
+<footer><div class="wrap"><span class="en">The Patch · free, no ads, no account · reviewed by AI and real users, not yet by a pharmacist. Part of the <a href="/">V3KTOR™ Project</a>.</span><span class="fr">La Patch · gratuite, sans pub, sans compte · révisée par des IA et de vrais utilisateurs, pas encore par un pharmacien. Fait partie du <a href="/">projet V3KTOR™</a>.</span></div><div class="wrap" style="margin-top:8px"><span class="en">Free software under the <a href="https://github.com/tobiedavid/v3ktor.org/blob/main/LICENSE">GNU AGPL-3.0-or-later</a> — <a href="https://github.com/tobiedavid/v3ktor.org">source code</a>. Food values: Canadian Nutrient File, Health Canada — contains information licensed under the <a href="https://open.canada.ca/en/open-government-licence-canada">Open Government Licence – Canada</a>.</span><span class="fr">Logiciel libre sous licence <a href="https://github.com/tobiedavid/v3ktor.org/blob/main/LICENSE">GNU AGPL-3.0-or-later</a> — <a href="https://github.com/tobiedavid/v3ktor.org">code source</a>. Valeurs des aliments : Fichier canadien sur les éléments nutritifs, Santé Canada — contient de l’information visée par la <a href="https://ouvert.canada.ca/fr/licence-du-gouvernement-ouvert-canada">Licence du gouvernement ouvert – Canada</a>.</span></div></footer>
 <script>
 (function(){
-  var saved=null; try{ saved=localStorage.getItem('thepatch.site.lang'); }catch(e){}
-  var lang=saved||((navigator.language||'en').toLowerCase().startsWith('fr')?'fr':'en');
+  /* this page's last language; before a first visit, the one chosen on the v3ktor.org front page; otherwise the phone's */
+  var saved=null, site=null; try{ saved=localStorage.getItem('thepatch.site.lang'); site=localStorage.getItem('v3ktor-lang'); }catch(e){}
+  var ok=function(l){ return l==='fr'||l==='en'; };
+  var lang=ok(saved)?saved:ok(site)?site:((navigator.language||'en').toLowerCase().startsWith('fr')?'fr':'en');
   function set(l){ document.documentElement.className='l-'+l; document.documentElement.lang=l==='fr'?'fr-CA':'en-CA';
     document.title=l==='fr'?'La Patch — The Patch':'The Patch — La Patch';
     document.querySelectorAll('.lang button').forEach(function(b){ b.setAttribute('aria-pressed', String(b.dataset.l===l)); });
     try{ localStorage.setItem('thepatch.site.lang',l); }catch(e){} }
-  document.querySelectorAll('.lang button').forEach(function(b){ b.onclick=function(){ set(b.dataset.l); }; });
+  /* a language picked here is a choice for the whole site: the front page and Sollum's page follow */
+  document.querySelectorAll('.lang button').forEach(function(b){ b.onclick=function(){ set(b.dataset.l); try{ localStorage.setItem('v3ktor-lang',b.dataset.l); localStorage.setItem('sollum.site.lang',b.dataset.l); }catch(e){} }; });
   set(lang);
   document.querySelectorAll('a[href="app/"]').forEach(function(a){ a.addEventListener('click',function(){ try{ if(!localStorage.getItem('thepatch.v1')) localStorage.setItem('thepatch.v1',JSON.stringify({lang:document.documentElement.className==='l-fr'?'fr':'en'})); }catch(e){} }); });
 })();

diff --git a/patch/app/sw.js b/patch/app/sw.js
@@ -1,7 +1,7 @@
 /* The Patch — offline cache. A new app version changes CACHE, so phones pick it up on the next open with a connection.
    Copyright (C) 2026  Tobie David · SPDX-License-Identifier: AGPL-3.0-or-later, with two terms under its section 7 (see the notice
    at the top of index.html) · https://github.com/tobiedavid/v3ktor.org */
-const CACHE='thepatch-1.2.61-3db23c08';
+const CACHE='thepatch-1.2.61-cce2f3de';
 const SHELL=['./','index.html','manifest.webmanifest','icons/icon-192.png','icons/icon-512.png','icons/maskable-512.png','icons/apple-touch-icon.png','icons/favicon-32.png'];
 self.addEventListener('install',e=>{ e.waitUntil(caches.open(CACHE).then(c=>c.addAll(SHELL)).then(()=>self.skipWaiting())); });
 self.addEventListener('activate',e=>{ e.waitUntil(caches.keys().then(ks=>Promise.all(ks.filter(k=>k.startsWith('thepatch-')&&k!==CACHE).map(k=>caches.delete(k)))).then(()=>self.clients.claim())); });
